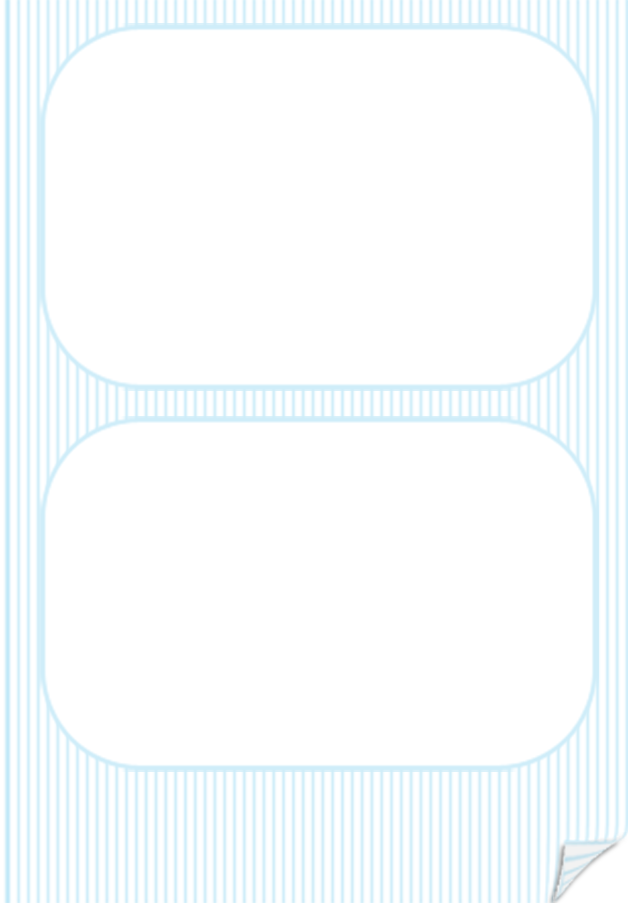
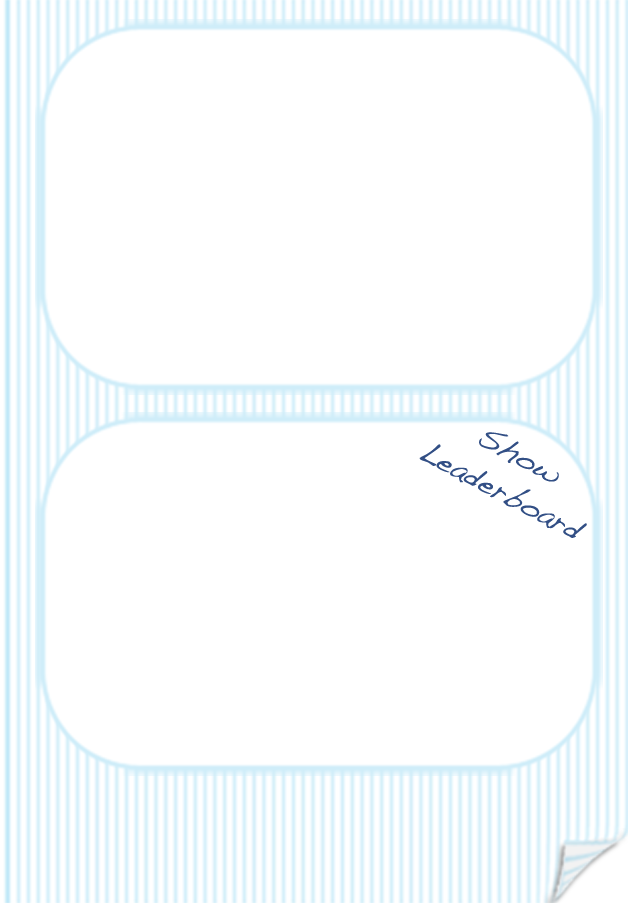
showing game center leaderboard from game over, a hopefully final fix for ensuring uniqueness of user choices

Changed region(s): [[0.6656, 0.4651, 0.9379, 0.5891]]

diff --git a/twittaddict/Classes/MatchController.m b/twittaddict/Classes/MatchController.m
@@ -252,10 +252,7 @@
 	tweetText.text = [tweet valueForKey:@"text"];
 	[correctUserID setString:[[tweet objectForKey:@"user"]valueForKey:@"id"]];
 	[friends shuffle];
-	NSMutableArray *users = [[NSMutableArray alloc]initWithObjects:[tweet objectForKey:@"user"], nil];
-	while ([users count]<3) {
-		[users addObject:[self nonCurrentUser]];
-	}
+	NSMutableArray *users = [self userChoices:[tweet objectForKey:@"user"]];
 	[users shuffle];
 	[self initUser:[users objectAtIndex:0] withButton:user1Button withLabel:user1Label];
 	[self initUser:[users objectAtIndex:1] withButton:user2Button withLabel:user2Label];
@@ -264,17 +261,15 @@
 	[self showMode1Components];
 }
 
--(NSDictionary *)nonCurrentUser {
-	return [self randomUser];
-}
-
--(NSDictionary *)randomUser {
-	NSDictionary *user = [friends objectAtIndex:arc4random()%[friends count]];
-	if (![[user valueForKey:@"id"] isEqualToString:correctUserID]) {
-		return user;
-	} else {
-		[self randomUser];
+-(NSMutableArray *)userChoices:(NSDictionary *)correctUser {
+	NSMutableArray *userChoices = [NSMutableArray arrayWithObject:correctUser];
+	while ([userChoices count]<3) {
+		NSDictionary *user = [friends objectAtIndex:arc4random()%[friends count]];
+		if (![userChoices containsObject:user] && ![[user valueForKey:@"id"] isEqualToString:correctUserID]) {
+			[userChoices addObject:user];
+		}
 	}
+	return userChoices;
 }
 
 -(void)hideMode1Components {

diff --git a/twittaddict/Classes/GameOverController.m b/twittaddict/Classes/GameOverController.m
@@ -78,6 +78,20 @@
 	[statsView release];
 }
 
+-(IBAction)showLeaderboard {
+	GKLeaderboardViewController *leaderboardController = [[GKLeaderboardViewController alloc] init];
+	if (leaderboardController != nil) {
+        leaderboardController.leaderboardDelegate = self;
+		leaderboardController.timeScope = GKLeaderboardTimeScopeAllTime;
+		leaderboardController.modalTransitionStyle = UIModalTransitionStyleFlipHorizontal;
+        [self presentModalViewController: leaderboardController animated: YES];
+    }
+}
+
+- (void)leaderboardViewControllerDidFinish:(GKLeaderboardViewController *)viewController {
+    [self dismissModalViewControllerAnimated:YES];
+}
+
 #pragma mark -
 #pragma mark Table view data source
 

diff --git a/twittaddict/Classes/GameOverController.h b/twittaddict/Classes/GameOverController.h
@@ -9,8 +9,9 @@
 #import <UIKit/UIKit.h>
 #import "BaseController.h"
 #import "MatchController.h"
+#import <GameKit/GameKit.h>
 
-@interface GameOverController : BaseController <UITableViewDelegate> {
+@interface GameOverController : BaseController <UITableViewDelegate, GKLeaderboardViewControllerDelegate> {
 	UILabel *scoreLabel;
 	UITextView *messageText;
 	NSDictionary *lastScore;
@@ -30,5 +31,6 @@
 -(NSDictionary *)lastScore;
 -(NSArray *)highScores;
 -(IBAction)showStats;
+-(IBAction)showLeaderboard;
 
 @end

diff --git a/twittaddict/Classes/MatchController.h b/twittaddict/Classes/MatchController.h
@@ -121,4 +121,6 @@
 -(void)disableTweetButtons;
 -(void)enableTweetButtons;
 -(void)increaseInstructionView:(NSString *)mode;
+-(NSMutableArray *)userChoices:(NSDictionary *)correctUser;
+
 @end
